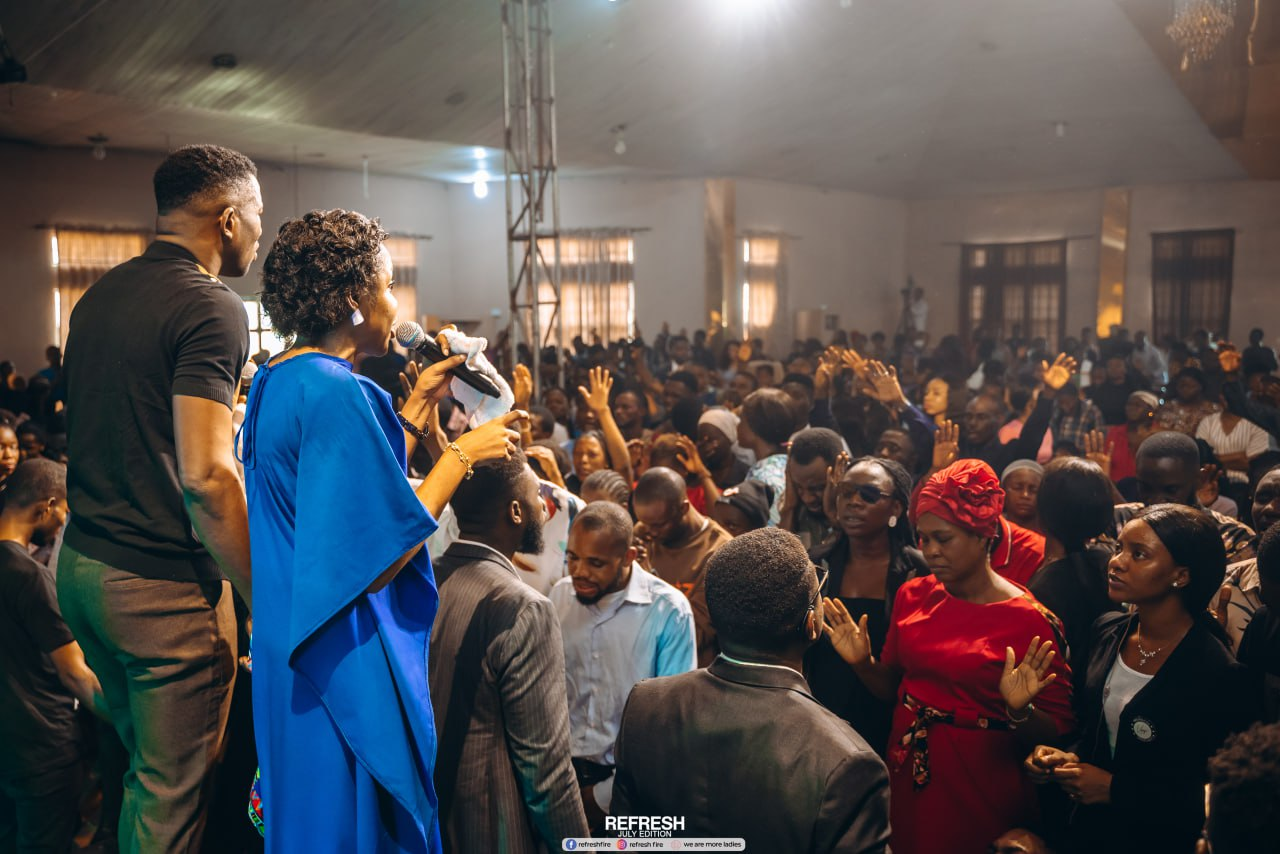
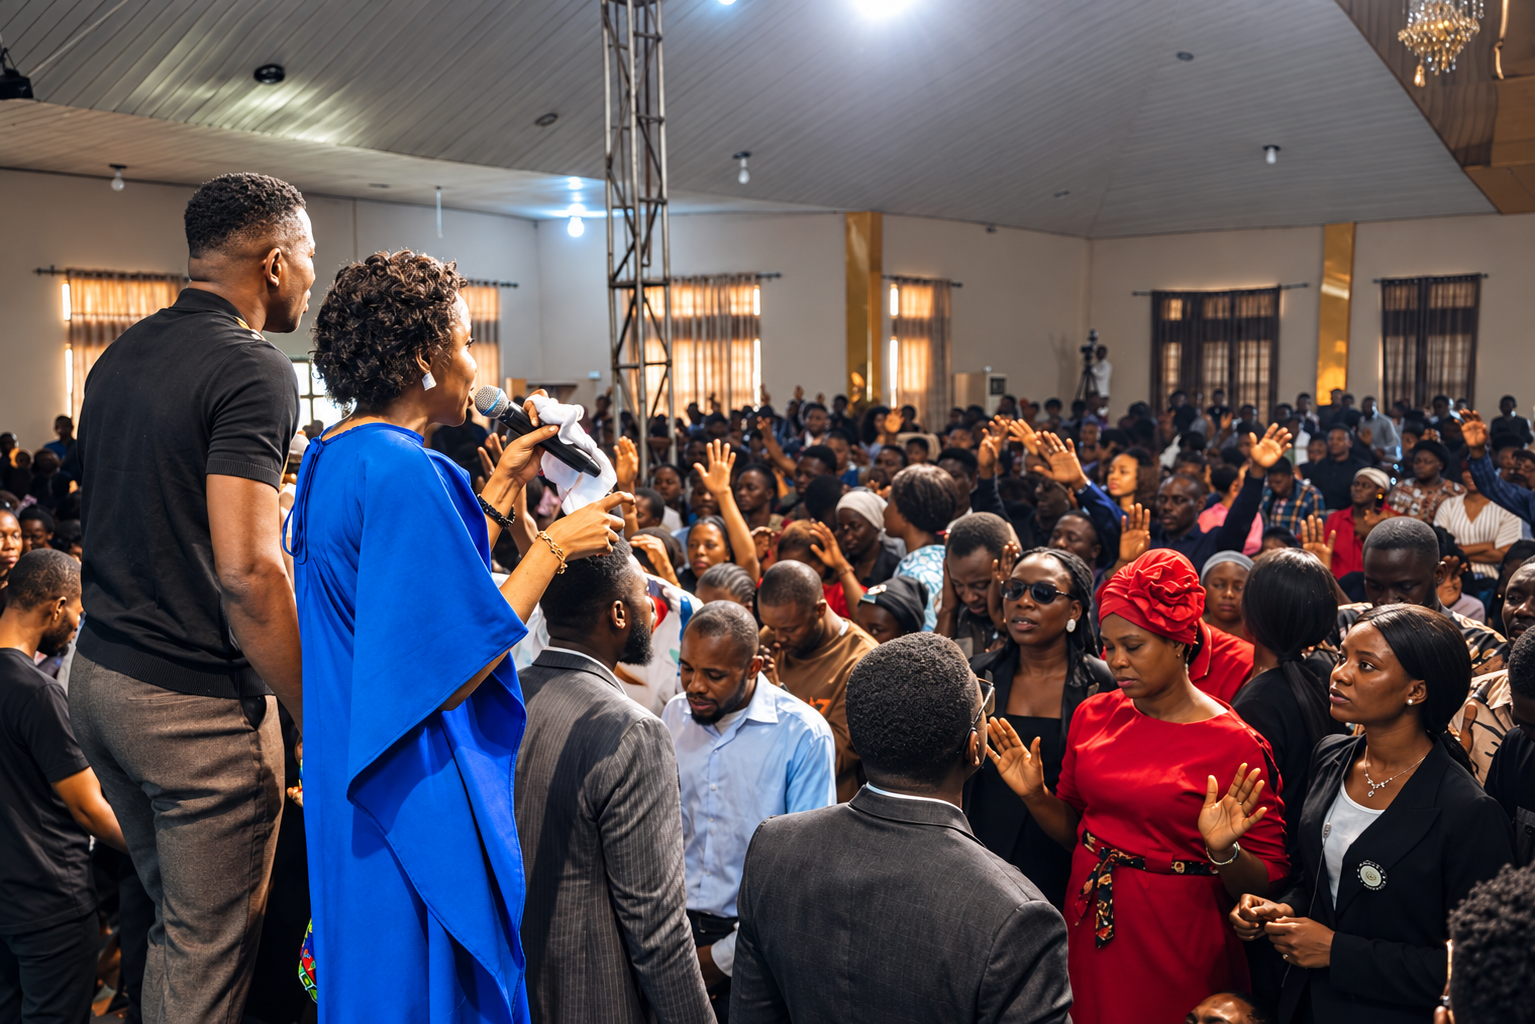
fix(apostolic-shift): make navbar sticky on desktop & mobile, add 20px chat margins

diff --git a/app/apostolic-shift/components/mobile/index.tsx b/app/apostolic-shift/components/mobile/index.tsx
@@ -148,8 +148,8 @@ function NavigationBar() {
   const [menuOpen, setMenuOpen] = useState(false);
 
   return (
-    <div className="sticky top-0 left-0 right-0 z-50 w-full bg-[rgba(0,0,0,0.5)] backdrop-blur-md border-b border-white/10">
-      <div className="flex h-16.25 items-center justify-between px-5 py-3 w-full" data-name="Navigation bar">
+    <div className="sticky top-0 left-0 right-0 z-50 w-full bg-black/90 backdrop-blur-md border-b border-white/10">
+      <div className="flex h-16 items-center justify-between px-5 py-3 w-full" data-name="Navigation bar">
         <a href="#" className="relative shrink-0 size-10 rounded-full overflow-hidden bg-white p-1 flex items-center justify-center">
           <img alt="The Votage Church" className="size-full object-contain" src={imgChatGptImageJan192026065255Pm1} />
         </a>
@@ -159,9 +159,15 @@ function NavigationBar() {
           onClick={() => setMenuOpen(!menuOpen)}
           className="cursor-pointer p-2 text-white hover:opacity-80 transition-opacity"
         >
-          <svg className="size-6" fill="none" height="14" viewBox="0 0 20 14" width="20">
-            <path d="M1 1H19M9 7H19M4 13H19" stroke="white" strokeLinecap="round" strokeWidth="2" />
-          </svg>
+          {menuOpen ? (
+            <svg className="size-6" fill="none" height="24" viewBox="0 0 24 24" width="24" stroke="currentColor">
+              <path d="M6 18L18 6M6 6l12 12" strokeWidth="2" strokeLinecap="round" strokeLinejoin="round" />
+            </svg>
+          ) : (
+            <svg className="size-6" fill="none" height="14" viewBox="0 0 20 14" width="20">
+              <path d="M1 1H19M9 7H19M4 13H19" stroke="white" strokeLinecap="round" strokeWidth="2" />
+            </svg>
+          )}
         </button>
       </div>
       {menuOpen && (
@@ -218,13 +224,12 @@ function NavigationBar() {
 
 function HeroSection({ onRegisterClick }: { onRegisterClick: () => void }) {
   return (
-    <div className="min-h-175 overflow-hidden relative shrink-0 w-full bg-black flex flex-col justify-between" data-name="Hero section">
+    <div className="min-h-160 overflow-hidden relative shrink-0 w-full bg-black flex flex-col justify-center items-center" data-name="Hero section">
       <div aria-hidden className="absolute inset-0 pointer-events-none">
         <img alt="" className="absolute inset-0 size-full object-cover" src={imgHeroSection} />
         <div className="absolute bg-[rgba(0,0,0,0.75)] inset-0" />
       </div>
-      <NavigationBar />
-      <div className="relative z-10 flex flex-col items-center justify-center flex-1 py-15 px-5">
+      <div className="relative z-10 flex flex-col items-center justify-center flex-1 py-14 px-5 w-full">
         <Frame18 onRegisterClick={onRegisterClick} />
       </div>
     </div>
@@ -278,7 +283,7 @@ function Frame29() {
     <div className="content-stretch flex items-center justify-center p-2.5 relative shrink-0 w-full">
       <div className="[word-break:break-word] font-['Poppins:Regular',sans-serif] leading-relaxed not-italic relative shrink-0 text-[#262422] text-[15px] sm:text-[16px] w-full flex flex-col gap-3.5">
         <p className="leading-relaxed mb-0">There are moments in the spirit when everything changes, not gradually, but suddenly. Apostolic Shift is one of those moments.</p>
-        <p className="leading-relaxed mb-0">{`A days power packed conference Where we gather to pray until the atmosphere yields, until stagnant situations move and heaven's agenda for this season takes root in the City of Benin and on earth. This is apostolic authority in operation: prayer that doesn't just ask, but commands change.`}</p>
+        <p className="leading-relaxed mb-0">{`A days power packed conference where we gather to pray until the atmosphere yields, until stagnant situations move and heaven's agenda for this season takes root in the City of Benin and on earth. This is apostolic authority in operation: prayer that doesn't just ask, but commands change.`}</p>
         <p className="leading-relaxed mb-0">Join Apostle Arome Osayi, hosted by Rev Ohis and Pastor Anwinli Ojeikere as we contend for a fresh move of God in Benin city.</p>
         <p className="leading-relaxed mb-0">Your breakthrough has a date. Come and encounter the shift.</p>
       </div>
@@ -752,20 +757,18 @@ function PaymentItem({
         if (e.key === "Enter" || e.key === " ") copy();
       }}
       title={`Click to copy ${value}`}
-      className={`group relative flex items-center justify-between rounded-2xl px-5 py-3.5 cursor-pointer transition-all duration-200 select-none ${
-        highlight
+      className={`group relative flex items-center justify-between rounded-2xl px-5 py-3.5 cursor-pointer transition-all duration-200 select-none ${highlight
           ? "bg-[#fffee9] shadow-[0_6px_20px_rgba(0,0,0,0.05)] border border-[#fae8b2]/60 hover:shadow-[0_8px_24px_rgba(0,0,0,0.08)]"
           : "bg-white shadow-[0_6px_20px_rgba(0,0,0,0.05)] border border-black/4 hover:shadow-[0_8px_24px_rgba(0,0,0,0.08)]"
-      }`}
+        }`}
     >
       <div className="flex flex-col min-w-0 pr-2">
         <span className="font-['Poppins:Regular',sans-serif] text-[12px] text-[#6b7280] leading-tight mb-1">
           {label}
         </span>
         <span
-          className={`font-['Poppins:Bold',sans-serif] font-bold text-black truncate tracking-tight ${
-            highlight ? "text-[16px] sm:text-[17px]" : "text-[15px] sm:text-[16px]"
-          }`}
+          className={`font-['Poppins:Bold',sans-serif] font-bold text-black truncate tracking-tight ${highlight ? "text-[16px] sm:text-[17px]" : "text-[15px] sm:text-[16px]"
+            }`}
         >
           {value}
         </span>
@@ -776,11 +779,10 @@ function PaymentItem({
           type="button"
           onClick={(e) => copy(e)}
           aria-label={`Copy ${label}`}
-          className={`relative flex size-8 shrink-0 items-center justify-center rounded-lg transition-all ${
-            copied
+          className={`relative flex size-8 shrink-0 items-center justify-center rounded-lg transition-all ${copied
               ? "text-emerald-600 bg-emerald-50"
               : "text-neutral-700 hover:text-black hover:bg-neutral-100"
-          }`}
+            }`}
         >
           {copied ? <CheckIcon className="size-4.5 text-emerald-600" /> : <CopyIcon className="size-4.5 text-neutral-800" />}
         </button>
@@ -1110,6 +1112,7 @@ export default function AndroidCompact() {
   return (
     <div className="bg-white content-stretch flex flex-col items-start relative size-full" data-name="Android Compact - 1">
       <Banner />
+      <NavigationBar />
       <HeroSection onRegisterClick={handleRegisterClick} />
       <About />
       <Register />

diff --git a/components/ui/Chatwidget.tsx b/components/ui/Chatwidget.tsx
@@ -378,7 +378,7 @@ export default function ChatWidget({
           {/* Header */}
           <div
             style={{
-              padding: "12px 12px",
+              padding: "14px 20px",
               borderBottom: "1px solid #eee",
               display: "flex",
               alignItems: "center",
@@ -395,7 +395,7 @@ export default function ChatWidget({
                   border: "1px solid #d1d5db",
                   background: busy ? "#f3f4f6" : "#fff",
                   borderRadius: 10,
-                  padding: "6px 10px",
+                  padding: "6px 12px",
                   cursor: busy ? "not-allowed" : "pointer",
                   fontSize: 12,
                 }}
@@ -406,24 +406,25 @@ export default function ChatWidget({
           </div>
 
           {/* Messages */}
-          <div style={{ padding: 12, overflowY: "auto", flex: 1 }}>
+          <div style={{ padding: 20, overflowY: "auto", flex: 1 }}>
             {msgs.map((m, i) => (
               <div key={i}>
                 <div
                   style={{
-                    margin: "10px 0",
+                    margin: "14px 0",
                     display: "flex",
                     justifyContent: m.role === "user" ? "flex-end" : "flex-start",
                   }}
                 >
                   <div
                     style={{
-                      padding: "10px 12px",
-                      borderRadius: 12,
+                      padding: "14px 18px",
+                      borderRadius: 16,
                       background: m.role === "user" ? "#E9F5FF" : "#F4F4F4",
-                      maxWidth: "85%",
+                      maxWidth: "88%",
                       whiteSpace: "pre-wrap",
-                      lineHeight: 1.35,
+                      lineHeight: 1.5,
+                      fontSize: 14,
                     }}
                   >
                     {linkifyText(m.text, handleInternalNavigate)}
@@ -463,7 +464,7 @@ export default function ChatWidget({
             {busy && (
               <div
                 style={{
-                  margin: "10px 0",
+                  margin: "14px 0",
                   display: "flex",
                   justifyContent: "flex-start",
                 }}
@@ -471,8 +472,8 @@ export default function ChatWidget({
               >
                 <div
                   style={{
-                    padding: "10px 12px",
-                    borderRadius: 12,
+                    padding: "14px 18px",
+                    borderRadius: 16,
                     background: "#F4F4F4",
                     display: "flex",
                     gap: 6,
@@ -500,7 +501,7 @@ export default function ChatWidget({
           </div>
 
           {/* Input */}
-          <div style={{ padding: 12, borderTop: "1px solid #eee" }}>
+          <div style={{ padding: "14px 20px", borderTop: "1px solid #eee" }}>
             <div style={{ display: "flex", gap: 8 }}>
               <input
                 value={input}
@@ -510,7 +511,7 @@ export default function ChatWidget({
                 placeholder={busy ? "Thinking…" : "Type a message…"}
                 style={{
                   flex: 1,
-                  padding: "10px 12px",
+                  padding: "10px 14px",
                   borderRadius: 12,
                   border: "1px solid #ddd",
                   background: busy ? "#f3f4f6" : "#fff",
@@ -521,7 +522,7 @@ export default function ChatWidget({
                 onClick={onSend}
                 disabled={busy}
                 style={{
-                  padding: "10px 14px",
+                  padding: "10px 16px",
                   borderRadius: 12,
                   border: "1px solid #111827",
                   background: busy ? "#374151" : "#1f2937",

diff --git a/app/apostolic-shift/components/destop/index.tsx b/app/apostolic-shift/components/destop/index.tsx
@@ -213,14 +213,14 @@ function Container() {
 
 function NavigationBar({ onRegisterClick }: { onRegisterClick: () => void }) {
   return (
-    <div className="sticky top-0 left-0 right-0 z-50 w-full bg-[rgba(0,0,0,0.5)] backdrop-blur-md border-b border-white/10">
-      <div className="flex h-22.5 items-center justify-between px-8 xl:px-16 2xl:px-20 py-3 w-full max-w-[1680px] mx-auto" data-name="Navigation bar">
-        <a href="#" className="relative shrink-0 size-14.25 rounded-full overflow-hidden bg-white p-1 flex items-center justify-center" data-name="Logo">
+    <div className="sticky top-0 left-0 right-0 z-50 w-full bg-black/85 backdrop-blur-md border-b border-white/10 transition-colors">
+      <div className="flex h-20 items-center justify-between px-8 xl:px-16 2xl:px-20 py-3 w-full max-w-[1680px] mx-auto" data-name="Navigation bar">
+        <a href="#" className="relative shrink-0 size-14 rounded-full overflow-hidden bg-white p-1 flex items-center justify-center" data-name="Logo">
           <img alt="The Votage Church" className="size-full object-contain" src={imgChatGptImageJan192026065255Pm1} />
         </a>
         <Container />
         <button
-          className="flex h-12 items-center justify-center rounded-[36px] bg-[#f80] hover:bg-[#ff9500] px-7 font-['Poppins:Medium',sans-serif] text-[16px] text-white cursor-pointer transition-colors shadow-lg"
+          className="flex h-11 items-center justify-center rounded-[36px] bg-[#f80] hover:bg-[#ff9500] px-7 font-['Poppins:Medium',sans-serif] text-[16px] text-white cursor-pointer transition-colors shadow-lg"
           data-name="CTA"
           onClick={onRegisterClick}
           type="button"
@@ -290,15 +290,14 @@ function Frame19() {
   );
 }
 
-function HeroSection({ onRegisterClick }: { onRegisterClick: () => void }) {
+function HeroSection() {
   return (
-    <div className="min-h-212.5 relative shrink-0 w-full bg-black overflow-hidden flex flex-col justify-between" data-name="Hero section">
+    <div className="min-h-200 relative shrink-0 w-full bg-black overflow-hidden flex flex-col justify-center items-center" data-name="Hero section">
       <div aria-hidden className="absolute inset-0 pointer-events-none">
         <img alt="" className="absolute max-w-none object-cover size-full" src={imgHeroSection} />
         <div className="absolute bg-[rgba(0,0,0,0.75)] inset-0" />
       </div>
-      <NavigationBar onRegisterClick={onRegisterClick} />
-      <div className="relative z-10 flex flex-col items-center justify-center flex-1 py-15 w-full max-w-[1680px] mx-auto px-8 xl:px-16 2xl:px-20">
+      <div className="relative z-10 flex flex-col items-center justify-center flex-1 py-20 w-full max-w-[1680px] mx-auto px-8 xl:px-16 2xl:px-20">
         <Frame19 />
       </div>
     </div>
@@ -1352,7 +1351,8 @@ export default function Background() {
   return (
     <div className="bg-white content-stretch flex flex-col items-start relative w-full" data-name="Background">
       <Banner />
-      <HeroSection onRegisterClick={handleRegisterClick} />
+      <NavigationBar onRegisterClick={handleRegisterClick} />
+      <HeroSection />
       <About />
       <Register />
       <Frame56 />

diff --git a/app/apostolic-shift/components/desktop-fit.tsx b/app/apostolic-shift/components/desktop-fit.tsx
@@ -1,68 +1,18 @@
 "use client";
 
-import { useEffect, useRef, type ReactNode } from "react";
-
-/* Natural width of the desktop Figma canvas in `components/destop`. */
-const CANVAS_WIDTH = 1440;
+import { type ReactNode } from "react";
 
 /**
- * Scales the fixed-width (1440px) desktop canvas down to the current
- * viewport so the page never overflows horizontally:
- *   • viewport >= 1440px → rendered at natural size (scale 1)
- *   • 768–1439px         → scaled down proportionally for an exact fit
- *
- * `transform` does not affect layout, so the wrapper's height is set to
- * the *visually scaled* canvas height (measured via ResizeObserver) to
- * avoid a blank gap at the bottom. While the canvas is hidden at the
- * mobile breakpoint its height is 0, so the wrapper collapses to nothing.
+ * Responsive desktop container wrapper for Apostolic Shift.
+ * Uses overflowX: clip to prevent horizontal scrollbars while preserving
+ * standard CSS position: sticky behavior for headers and navigation bars.
  */
 export function DesktopFit({ children }: { children: ReactNode }) {
-  const outerRef = useRef<HTMLDivElement>(null);
-  const innerRef = useRef<HTMLDivElement>(null);
-
-  useEffect(() => {
-    const outer = outerRef.current;
-    const inner = innerRef.current;
-    if (!outer || !inner) return;
-
-    const update = () => {
-      const clientW = document.documentElement.clientWidth;
-      if (clientW >= CANVAS_WIDTH) {
-        inner.style.width = "100%";
-        inner.style.transform = "";
-        inner.style.transformOrigin = "";
-        outer.style.height = "";
-      } else {
-        const scale = clientW / CANVAS_WIDTH;
-        inner.style.width = `${CANVAS_WIDTH}px`;
-        inner.style.transformOrigin = "top left";
-        inner.style.transform = `scale(${scale})`;
-        outer.style.height = `${Math.round(inner.offsetHeight * scale)}px`;
-      }
-    };
-
-    update();
-    const observer = new ResizeObserver(update);
-    observer.observe(inner);
-    window.addEventListener("resize", update);
-    return () => {
-      observer.disconnect();
-      window.removeEventListener("resize", update);
-    };
-  }, []);
-
   return (
-    <div
-      ref={outerRef}
-      className="w-full"
-      style={{ overflowX: "clip" }}
-    >
-      <div
-        ref={innerRef}
-        className="w-full"
-      >
+    <div className="w-full" style={{ overflowX: "clip" }}>
+      <div className="w-full">
         {children}
       </div>
     </div>
   );
-}
+}

diff --git a/components/ChatWidget.tsx b/components/ChatWidget.tsx
@@ -37,12 +37,12 @@ export function ChatWidget() {
           iframe.src = "https://votage-ai-assistant.vercel.app/";
           iframe.style.position = "fixed";
           iframe.style.bottom = "80px";
-          iframe.style.right = "5px";
-          iframe.style.width = "320px";
-          iframe.style.height = "550px";
+          iframe.style.right = "20px";
+          iframe.style.width = "min(360px, calc(100vw - 40px))";
+          iframe.style.height = "min(550px, calc(100vh - 120px))";
           iframe.style.border = "none";
           iframe.style.display = "none";
-          iframe.style.borderRadius = "12px";
+          iframe.style.borderRadius = "16px";
           iframe.style.boxShadow = "0 15px 40px rgba(0,0,0,0.3)";
           iframe.style.zIndex = "9999";
 

diff --git a/app/layout.tsx b/app/layout.tsx
@@ -83,7 +83,7 @@ export default function RootLayout({
         />
       </head>
       <body
-        className={` ${copperplateBold.variable} ${copperplateMedium.variable} ${copperplateLight.variable} ${copperplateCondensedMedium.variable} ${copperplateCondensedBold.variable} ${copperplateCondensedLight.variable} antialiased overflow-x-hidden`}
+        className={` ${copperplateBold.variable} ${copperplateMedium.variable} ${copperplateLight.variable} ${copperplateCondensedMedium.variable} ${copperplateCondensedBold.variable} ${copperplateCondensedLight.variable} antialiased overflow-x-clip`}
       >
         <Providers>{children}</Providers>
         <ChatWidget />

diff --git a/app/globals.css b/app/globals.css
@@ -218,7 +218,7 @@
 }
 
 html, body {
-  overflow-x: hidden;
+  overflow-x: clip;
   max-width: 100vw;
 }
 
